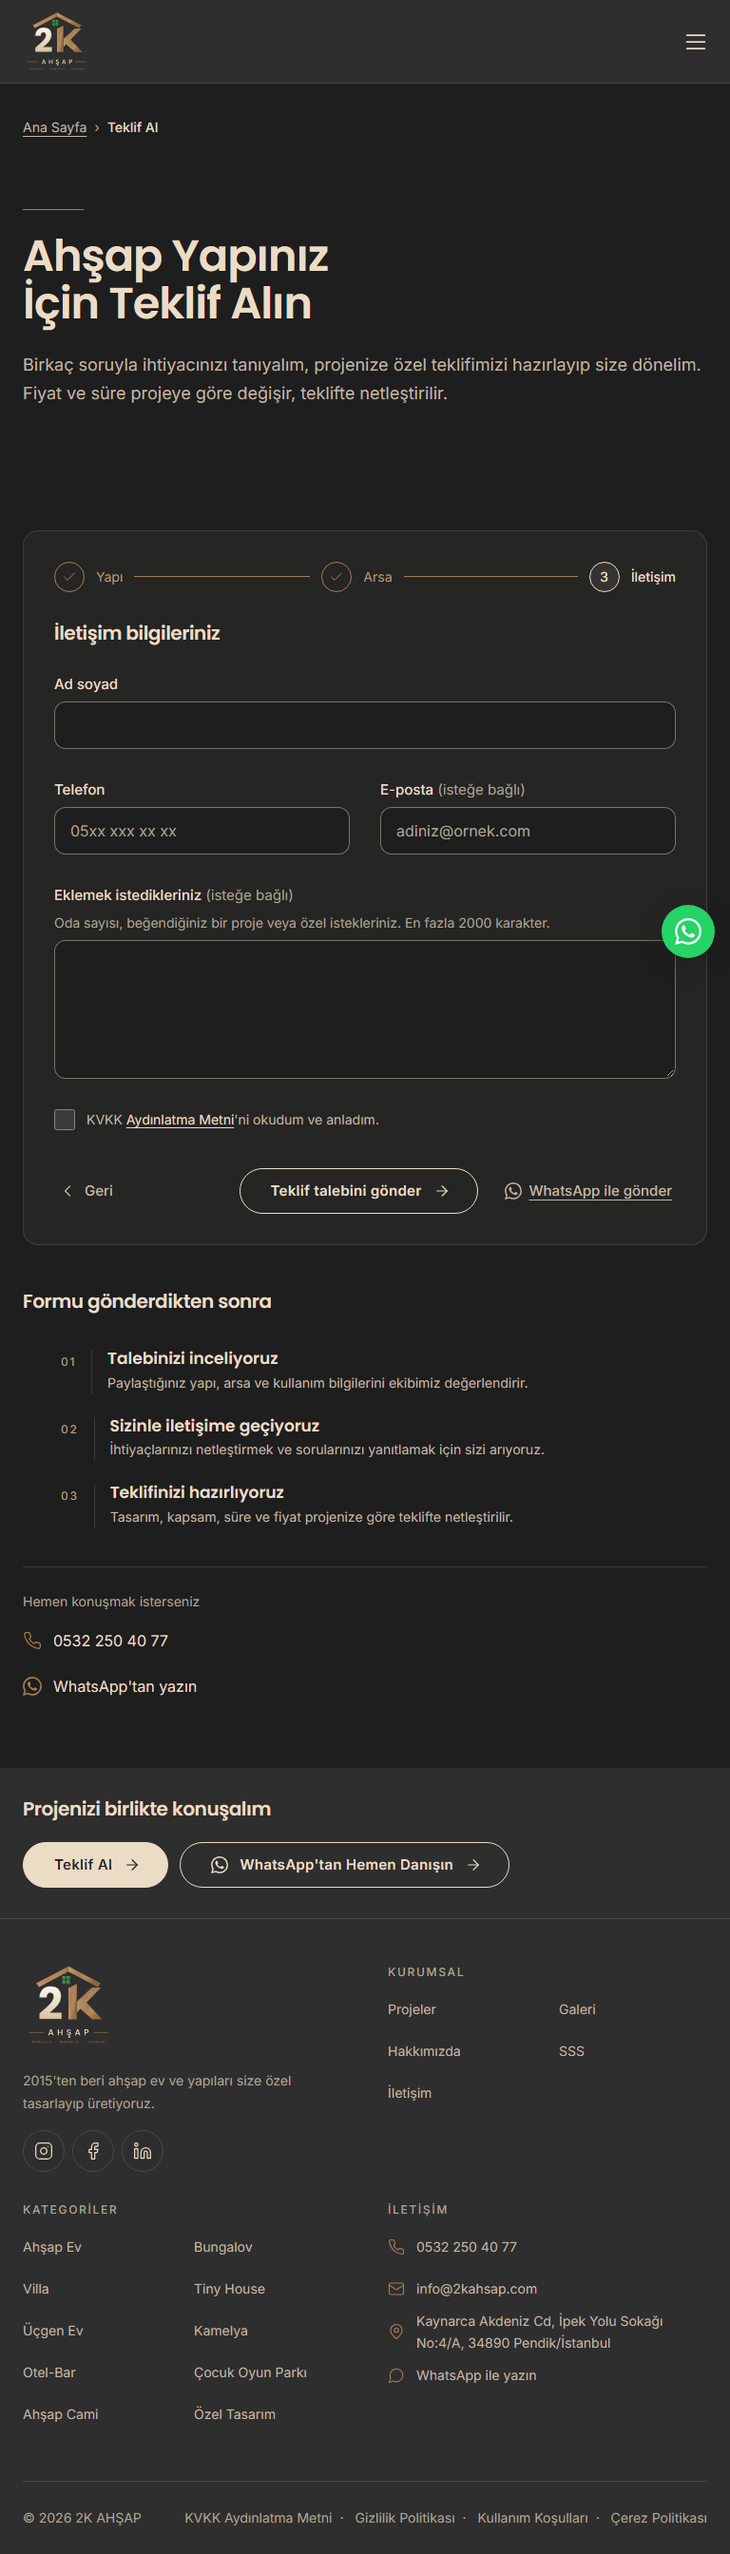
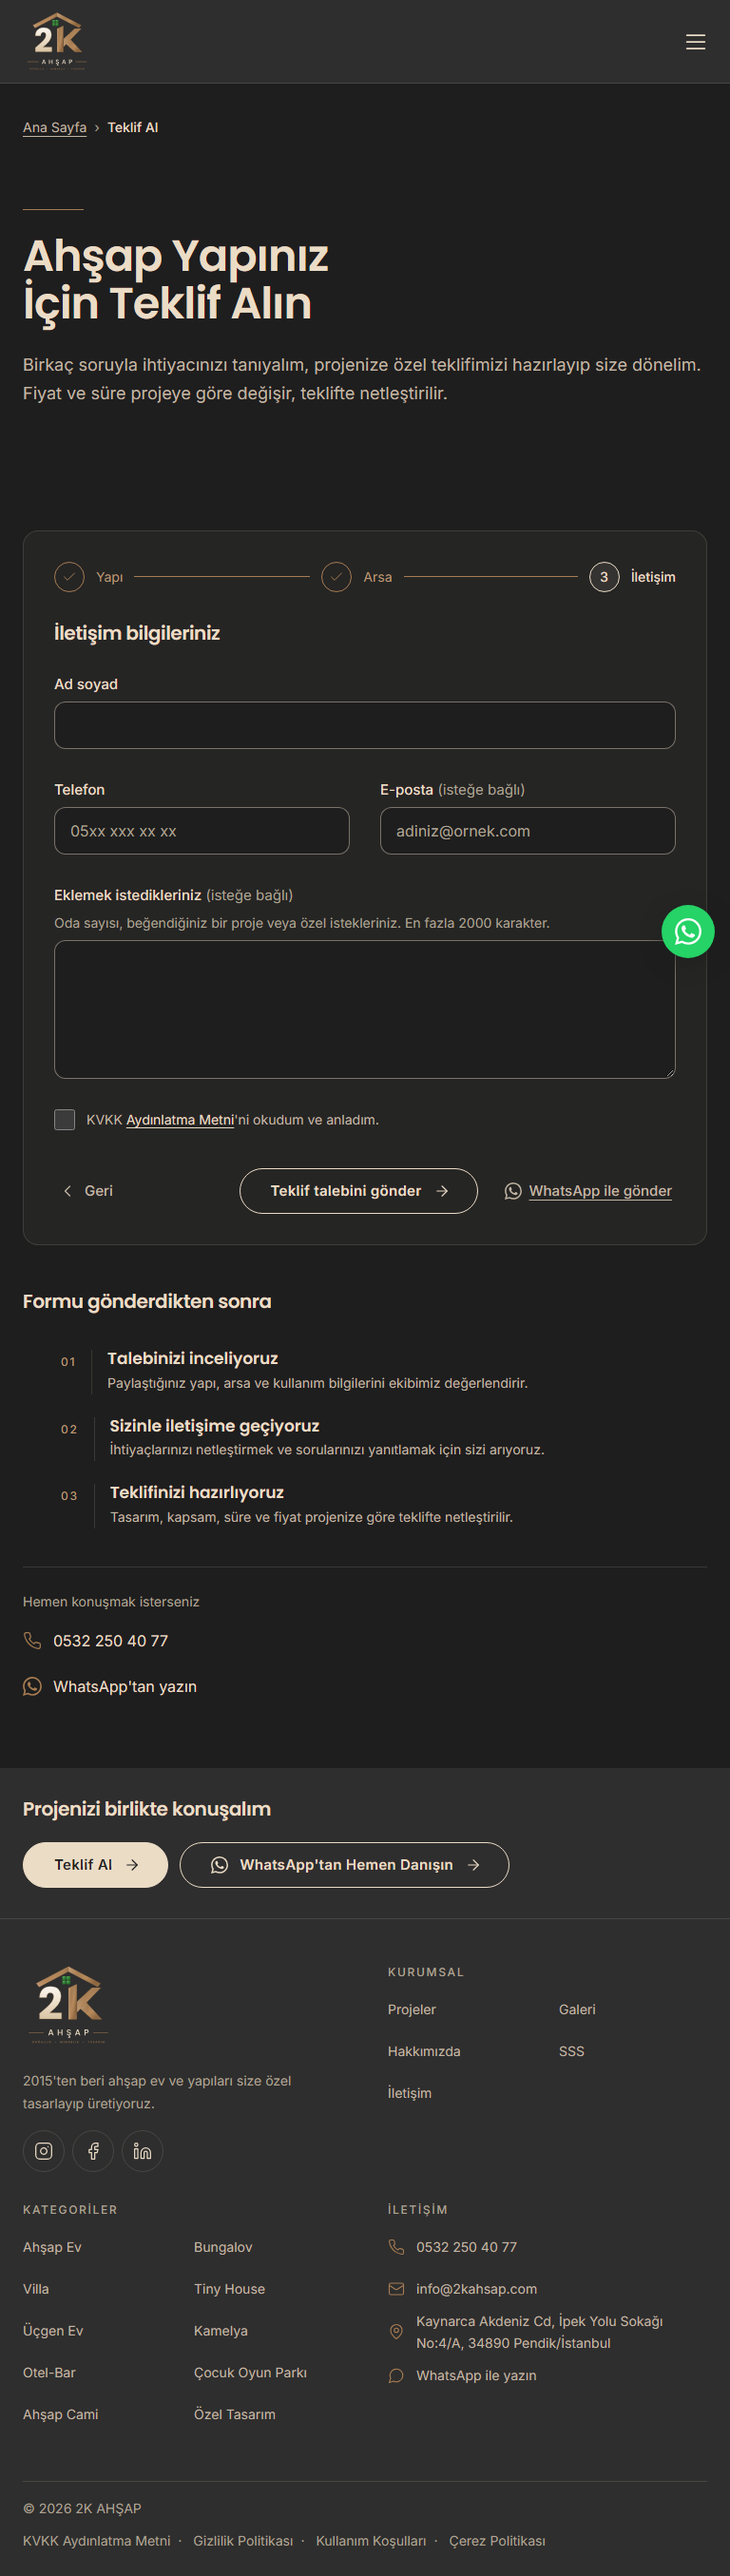
Footer alt şeridi: 768–1439 px'te yüzen WhatsApp butonunun altında kalmaz
Şeridin sağında buton kadar boşluk (§14, b seçeneği, kullanıcı onaylı).
768–899 px'te yasal linkler ikinci satıra iner; 900 px ve üstünde tek satır,
linkler 48 px sola kayar. 24 referans yenilendi (768 ve 1280 tam sayfa).

diff --git a/docs/onay-bekleyenler.md b/docs/onay-bekleyenler.md
@@ -334,7 +334,7 @@ Sitede değişiklik yapılmadı. Tarama derlenmiş sitede (49 sayfa), Playwright
   - `/villa/genis-verandali-ahsap-villa`'daki breadcrumb "Villa" linki 27 px genişlikte.
   - Hepsi WCAG 2.2 AA'nın 24 px sınırını karşılıyor, 44 px'in altında.
   - ✅ Düzeltildi (28 Ekim 2026), görünüm değişmeden: footer, breadcrumb, `/kvkk` linkleri, harita atfı (214707e); KVKK kutusu (7694b59); 1024 px ve üstünde header "SSS" linki (34 px, eee0f7c). İki yardımcı sınıf `global.css`'te: `dokunma-genislik` (konumsuz, inline-flex linkler) ve `dokunma-alani` (ortadan genişleyen katman). Doğrulama: 49 sayfa, 375 ve 1280 px, 44 px altında hedef yok, genişleyen alan komşu hedefe taşmıyor.
-  - Açık: 768–1365 px'te sayfanın sonunda yüzen WhatsApp düğmesi footer'daki "Çerez Politikası" yazısının son 40–48 px'ini örtüyor (1366 px ve üstünde örtüşme yok). Görsel kusur; görünüm değişmeden düzeltilemiyor, karar bekliyor.
+  - Açık: 768–1365 px'te sayfanın sonunda yüzen WhatsApp düğmesi footer'daki "Çerez Politikası" yazısının son 40–48 px'ini örtüyor (1366 px ve üstünde örtüşme yok). Görsel kusur; görünüm değişmeden düzeltilemiyordu. ✅ Uygulandı (28 Ekim 2026, b seçeneği): 768–1439 px'te alt şeridin sağında düğme kadar boşluk; örtüşme hiçbir genişlikte yok. 768–899 px'te yasal linkler ikinci satıra iner (şerit 77 → 101 px); 900 px ve üstünde tek satır, linkler 48 px sola kayar.
 - **İfade taraması (28 Ekim 2026):** "onaylıyorum" ve "kabul ediyorum" sitede geçmiyor. "Açık rıza" iki yerde: `/kvkk` hukuki sebepler listesi ("açık rızanız (md. 5/1)") ve `/cerez-politikasi` §6 ("çerezler yerleştirilmeden önce açık rızanızı alırız"). Benzeri: `/kullanim-kosullari` "kabul etmiş sayılırsınız". Metinler değişmedi; iki ifade hukukçu listesinde.
 - **Ünvan:** tek kaynak `src/data/site.ts` → `firma.unvan`. Görünen metinde `/kvkk` (giriş cümlesi, "Ticari unvan" satırı) ve `/kullanim-kosullari` (giriş, fikri mülkiyet), ikişer kez; JSON-LD `legalName` 49 sayfada. Yeni ünvan gelince tek satır değişir; `yasalGuncelleme` ve Y referansı güncellenir.
 

diff --git a/docs/guvenli-mod/README.md b/docs/guvenli-mod/README.md
@@ -123,6 +123,7 @@ Tek pikselden küçük bir değişiklik (çok küçük puntoda bir nokta gibi) g
 | 28 Ekim 2026 | Bu satırı ekleyen commit (kod ve referanslar birlikte) | İ ve T3 yenilendi (6 referans; kullanıcı onaylı): KVKK kutusunun metni "KVKK Aydınlatma Metni'ni okudum ve anladım." oldu (KVK Kurulu 2026/347 ilke kararı). 375 px'te metin iki satıra iner, altındaki her şey kayar: İ 4005 → 4027, T3 3614 → 3637. 768 ve 1280 px'te yalnızca satırın sonu değişti, boy aynı. Kutunun görünmez 44 px dokunma alanı pikselleri değiştirmiyor. Yenilemeden önce fark yalnızca bu 6 çekimdeydi; diğer 42 çekim %0 aynıydı. Referanslar aynı koşunun `son/` çekimlerinden kopyalandı. |
 | 28 Ekim 2026 | Bu satırı ekleyen commit (kod ve referanslar birlikte) | A 1280 ve Ç 1280 yenilendi (2 referans; kullanıcı onaylı): ana sayfada header fotoğrafın üstündeyken pasif menü linkleri krem (kontrast 4,0–4,4 → en düşük 5,8). Fark yalnızca menü satırında (2307 px); iki çekimde ayrıca bilinen "Teklif Al" düğmesi oynaması (63 px). Boy aynı. A 375/768 ve Ç 375/768 %0 aynı. Referanslar aynı koşunun `son/` çekimlerinden kopyalandı. |
 | 28 Ekim 2026 | Bu satırı ekleyen commit (kod ve referanslar birlikte) | Ç 768/1280 ve Y yenilendi (5 referans; kullanıcı onaylı): masaüstü çerez bandı metnine "son form gönderiminizin zamanı" eklendi (bant yine 5 satır, boyu aynı; Ç 375'teki kısa metin değişmedi). Yasal sayfaların "Son güncelleme" tarihi 20 Ekim → 28 Ekim 2026 (Y'de yalnızca tarih). Referanslar aynı koşunun `son/` çekimlerinden kopyalandı. |
+| 28 Ekim 2026 | Bu satırı ekleyen commit (kod ve referanslar birlikte) | 768 ve 1280 px'teki bütün tam sayfa çekimleri yenilendi (24 referans; kullanıcı onaylı, b seçeneği): footer alt şeridinin sağında 768–1439 px'te yüzen WhatsApp düğmesi kadar boşluk, "Çerez Politikası" artık düğmenin altında kalmıyor. 768'de yasal linkler ikinci satıra indi, sayfalar 23–24 px uzadı; 1280'de linkler 48 px sola kaydı, boy aynı. 375 px ve ilk ekran çekimleri %0 aynı. Referanslar aynı koşunun `son/` çekimlerinden kopyalandı. |
 
 ### Bilinen sınırlar
 
